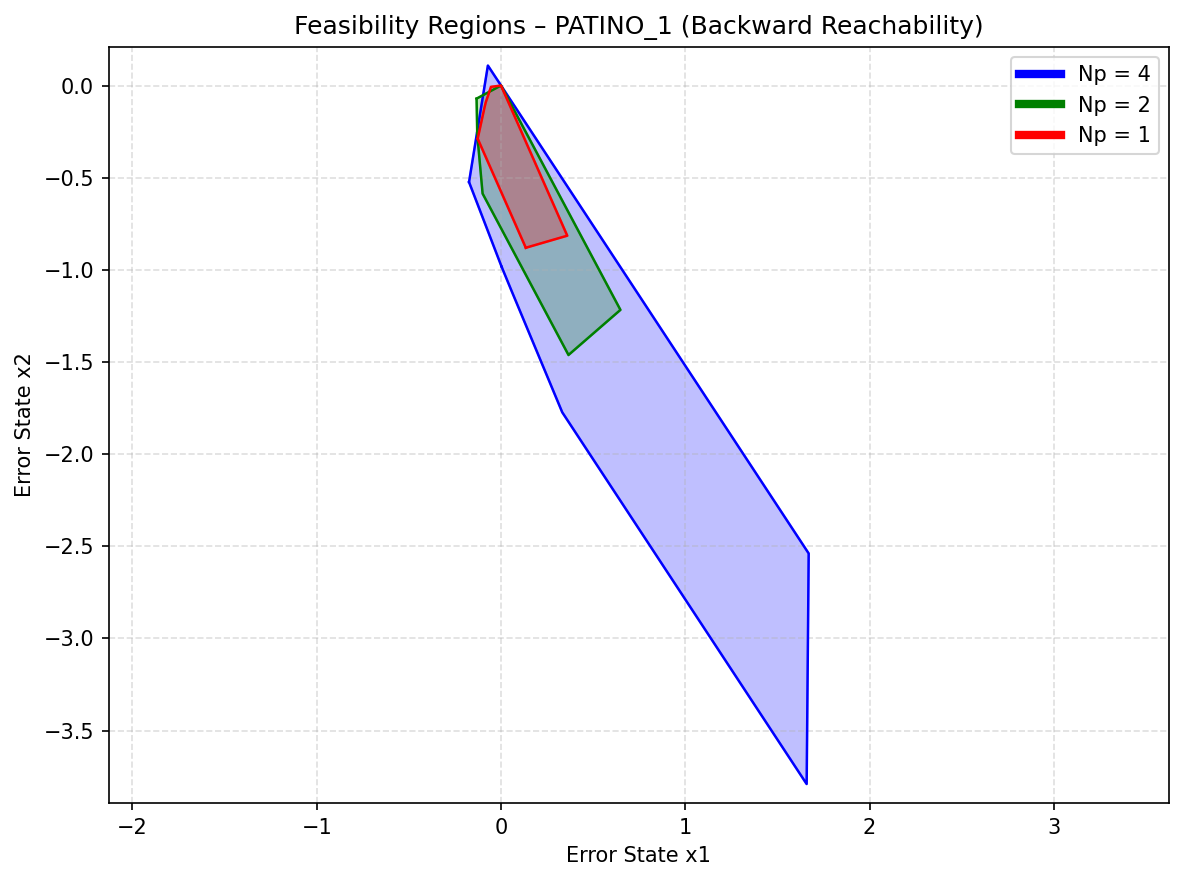
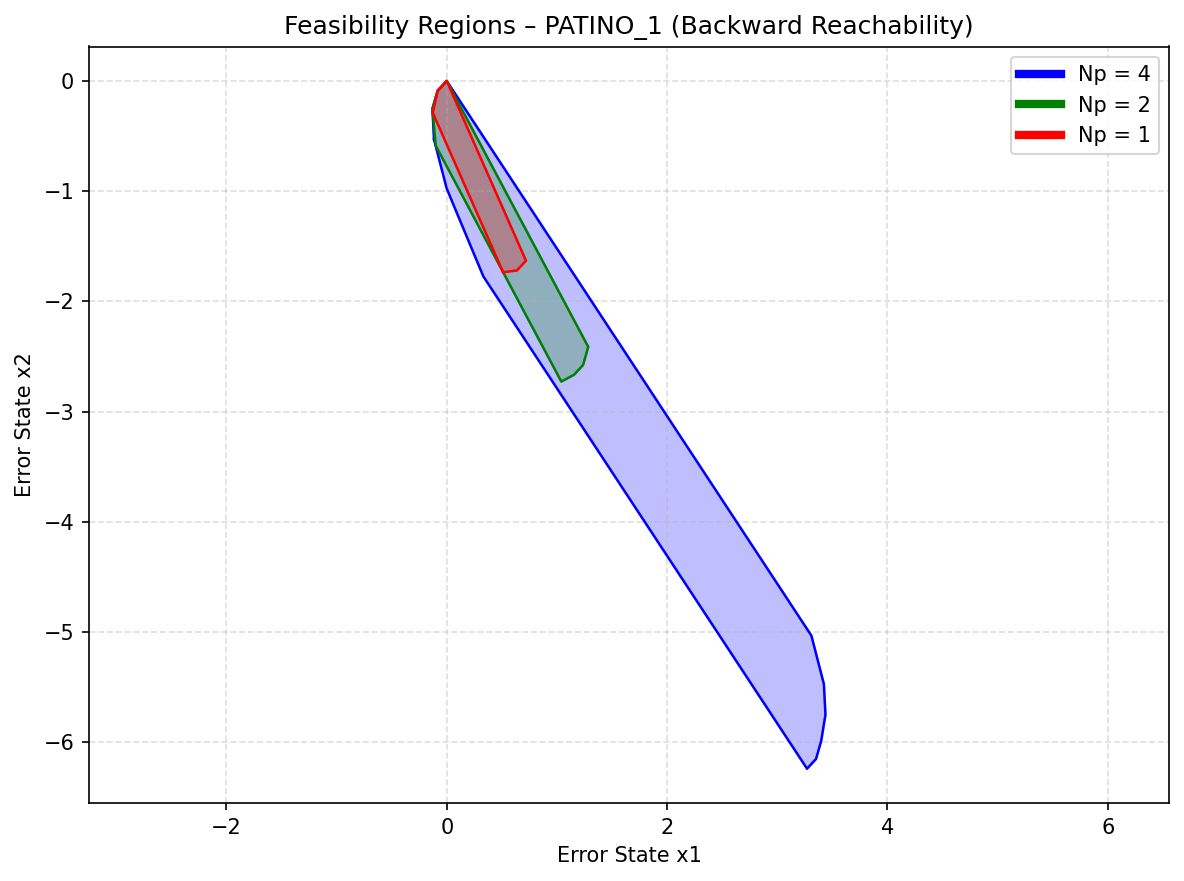
feat: Introduce Python implementations for Patiño1 and Integrador Duplo feasibility region computation, including documentation and generated plots.

diff --git a/simu2/python/project_patino1.py b/simu2/python/project_patino1.py
@@ -17,8 +17,11 @@ Usage:
        >> uv run --project python python/project_patino1.py
 """
 
+import argparse
 import os
+import sys
 
+import matplotlib
 import matplotlib.pyplot as plt
 import numpy as np
 import polytope as pc
@@ -278,6 +281,23 @@ def load_data(path="data_patino1.mat"):
 
 
 def main():
+    parser = argparse.ArgumentParser(
+        description="Compute feasibility regions for PATINO_1"
+    )
+    parser.add_argument(
+        "--save-only", action="store_true", help="Save figure without displaying it (default: show)"
+    )
+    parser.add_argument(
+        "--output",
+        default="feasibility_regions_patino1.png",
+        help="Output filename",
+    )
+    args = parser.parse_args()
+
+    # Configure matplotlib for headless if save-only
+    if args.save_only:
+        matplotlib.use("Agg")
+
     # 1. Load data
     Phi, Gamma, c_vec, Q_mat, R_mat = load_data()
     n, p = Phi.shape[0], Gamma.shape[1]
@@ -464,9 +484,13 @@ def main():
         ax.axis("equal")
         ax.grid(True, linestyle="--", alpha=0.4)
         plt.tight_layout()
-        # Save figure for headless environments (e.g., Apple Silicon terminal)
-        fig.savefig("feasibility_regions_patino1.png", dpi=150, bbox_inches="tight")
-        plt.show()
+        
+        # Save figure
+        fig.savefig(args.output, dpi=150, bbox_inches="tight")
+        print(f"[*] Figure saved to: {args.output}")
+
+        if not args.save_only:
+            plt.show()
     else:
         print("[!] Nothing to plot.")
 

diff --git a/simu2/python/project_integrador_duplo.py b/simu2/python/project_integrador_duplo.py
@@ -5,7 +5,7 @@ Replicates the MPT3 backward-reachability analysis for INTEGRADOR_DUPLO
 (n=2 state dimensions, p=3 inputs) in pure Python.
 
 Usage:
-    # Run with display
+    # Run with display (default)
     uv run --project python python/project_integrador_duplo.py
 
     # Save only (no display, for headless/CI environments)
@@ -201,7 +201,7 @@ def main():
         description="Compute feasibility regions for INTEGRADOR_DUPLO"
     )
     parser.add_argument(
-        "--show", action="store_true", help="Display figure (default: save only)"
+        "--save-only", action="store_true", help="Save figure without displaying it (default: show)"
     )
     parser.add_argument(
         "--output",
@@ -210,8 +210,8 @@ def main():
     )
     args = parser.parse_args()
 
-    # Configure matplotlib for headless by default
-    if not args.show:
+    # Configure matplotlib for headless if save-only
+    if args.save_only:
         matplotlib.use("Agg")
 
     # 1. Load data
@@ -423,7 +423,7 @@ def main():
         fig.savefig(args.output, dpi=150, bbox_inches="tight")
         print(f"[*] Figure saved to: {args.output}")
 
-        if args.show:
+        if not args.save_only:
             plt.show()
     else:
         print("[!] Nothing to plot.")

diff --git a/simu2/play_patino1.m b/simu2/play_patino1.m
@@ -38,13 +38,11 @@ function var_out = play_patino1(save_fig)
 
     % simulacao sem controle mpc
     s.m_config.mpc.on = false;
-    % fprintf('DEBUG: Running with MPC.on = %d\n', s.m_config.mpc.on);
     s.m_config.x0 = x0_pertubed;
     [y_off, t_off, m_off] = s.run(nsim);
 
     % simulacao com controle mpc
     s.m_config.mpc.on = true;
-    % fprintf('DEBUG: Running with MPC.on = %d\n', s.m_config.mpc.on);
     s.m_config.x0 = x0_pertubed;
     [y, t, m] = s.run(nsim);
 

diff --git a/simu2/python/README.md b/simu2/python/README.md
@@ -21,15 +21,21 @@ LAB_CIRCUIT), enabling computation on macOS Apple Silicon without MATLAB.
 # Install dependencies
 uv sync
 
-# Run PATINO_1
+# Run PATINO_1 (opens interactive plot window)
 uv run python python/project_patino1.py
 
-# Run PATINO_2
-uv run python python/project_patino2.py
+# Run PATINO_2 and save without opening a window
+uv run python python/project_patino2.py --save-only
 
-# Run INTEGRADOR_DUPLO
-uv run python python/project_integrador_duplo.py
+# Run INTEGRADOR_DUPLO with a custom output file
+uv run python python/project_integrador_duplo.py --output custom_plot.png
 ```
+
+### Command Line Arguments
+
+All three Python scripts optionally support the following arguments:
+- `--save-only`: Saves the visualization to disk without opening an interactive GUI window (ideal for SSH, headless, or CI workflows).
+- `--output <filename.png>`: (Only for PATINO_1 and INTEGRADOR_DUPLO) Specifies a custom filename for the generated plot.
 
 Each script auto-detects a `.mat` file with real system data; if none is found it
 falls back to a representative template so the pipeline can be validated immediately.
@@ -54,8 +60,7 @@ c = s.get_switching_constraints();
 save patino2_data.mat Phi Gamma c
 ```
 
-Place the `.mat` file in the `simu2/` root directory (not inside `python/`).
-Both scripts search the project root automatically.
+Place the `.mat` file in either the `simu2/` root directory or directly inside the `python/` folder. Both scripts search the project directories automatically.
 
 ## How It Works
 
@@ -105,6 +110,4 @@ All are installed automatically by `uv sync` via `pyproject.toml`.
   `scipy.optimize.linprog` — no additional setup required.
 - The 3D renderer (`project_patino2.py`) requires at least 4 non-coplanar
   vertices per polyhedron; degenerate cases are skipped with a warning.
-figures are saved as `feasibility_regions_patino1.png`,
-`feasibility_regions_patino2.png`, and `feasibility_regions_integrador_duplo.png`
-in the project root for headless environments.
+- For headless environments (e.g., CI pipelines or remote SSH sessions), always pass the `--save-only` flag to prevent matplotlib from attempting to open a GUI window.